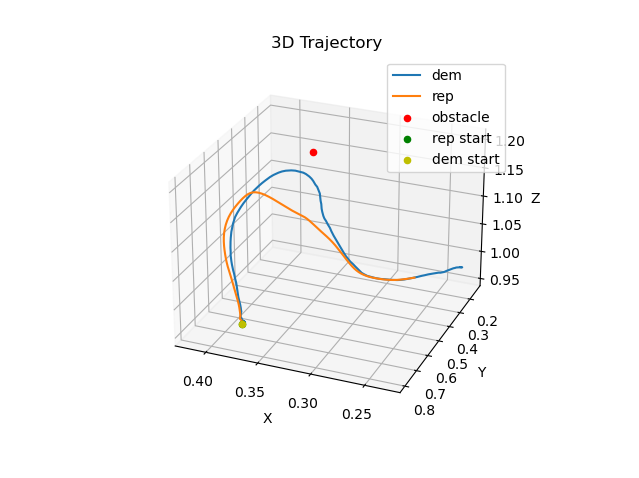
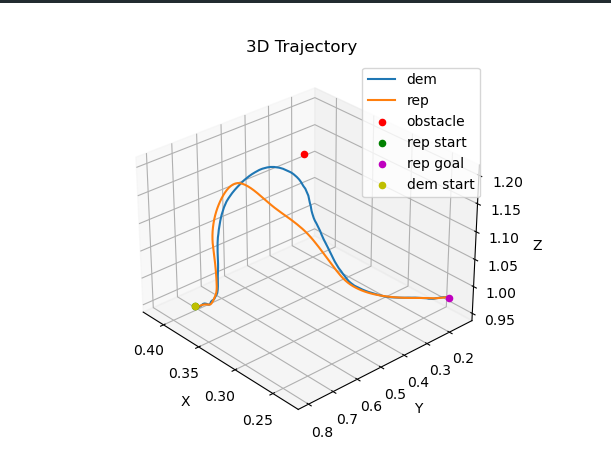
Added uniform data for VR demo

diff --git a/cdmp/test_cdmps.py b/cdmp/test_cdmps.py
@@ -19,7 +19,7 @@ DEMO_CONFIGS = {
         'eta_val': 5.0,
     },
     'vr': {
-        'filename': 'vr_demo.txt',
+        'filename': 'vr_demo_uniform.txt',
         'obstacle_pos': np.array([0.35, 0.4, 1.2]),
         'beta_val': 2.0,
         'lambda_f_val': 2.0,
@@ -52,8 +52,8 @@ if __name__ == '__main__':
 
     # # --- DEMO DATA --- # #
 
-    # demo_name = 'vr'
-    demo_name = 'minjerk'
+    demo_name = 'vr'
+    # demo_name = 'minjerk'
 
     if demo_name not in DEMO_CONFIGS:
         sys.exit('ERROR: Unknown demo "{}". Available demos: {}'.format(
@@ -144,6 +144,7 @@ if __name__ == '__main__':
         if obstacle_pos is not None:
             ax.scatter(obstacle_pos[0], obstacle_pos[1], obstacle_pos[2], color='r', label='obstacle')
         ax.scatter(test_cdmp.rep_Pstart[0], test_cdmp.rep_Pstart[1], test_cdmp.rep_Pstart[2], color='g', label='rep start')
+        ax.scatter(test_cdmp.rep_Pgoal[0], test_cdmp.rep_Pgoal[1], test_cdmp.rep_Pgoal[2], color='m', label='rep goal')
         ax.scatter(test_cdmp.dem_Pstart[0], test_cdmp.dem_Pstart[1], test_cdmp.dem_Pstart[2], color='y', label='dem start')
         ax.set_xlabel('X')
         ax.set_ylabel('Y')

diff --git a/cdmp/src/cdmps.py b/cdmp/src/cdmps.py
@@ -570,7 +570,7 @@ class CanonicalSystem():
     def phase_rollout(self):
         
         self.reset_states()
-        s_track = self.s_step
+        s_track = np.array([self.s_step])
         loop_count = 0
 
         while (loop_count < self.size-1):
